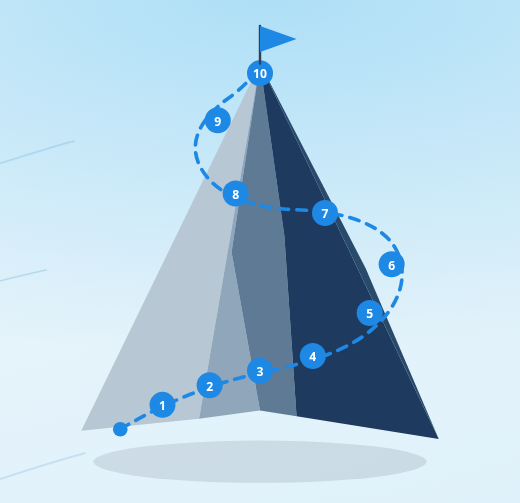
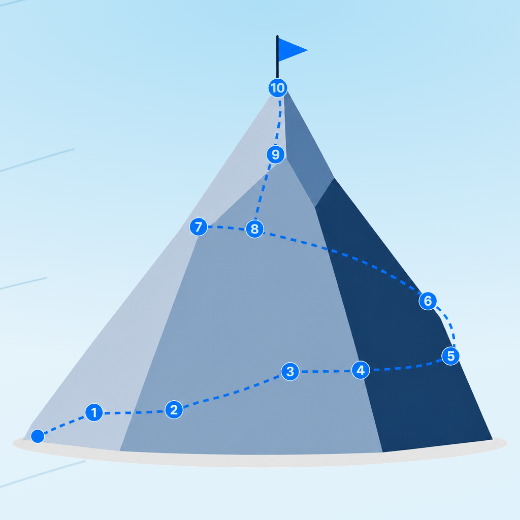
Restore original Summit mountain look with ordered stops
Bring back the previous low-poly mountain graphic and keep stop
numbers 1 through 10 in trail order on a transparent background.

diff --git a/index.html b/index.html
@@ -115,12 +115,12 @@
           </div>
 
           <div class="home-summit">
-            <!-- Static Summit — transparent SVG, stops 1→10 in trail order -->
+            <!-- Previous mountain look; stops numbered 1-10 in trail order; transparent -->
             <img
               class="home-summit__art"
-              src="assets/img/summit.svg"
-              width="640"
-              height="620"
+              src="assets/img/summit.png"
+              width="1024"
+              height="1024"
               alt="The Summit: a mountain trail with ten unit stops numbered 1 through 10"
               decoding="async"
             />

diff --git a/assets/css/home-path.css b/assets/css/home-path.css
@@ -280,7 +280,7 @@ body.page-home {
   display: block;
   width: 100%;
   height: auto;
-  aspect-ratio: 640 / 620;
+  aspect-ratio: 1 / 1;
   object-fit: contain;
   background: transparent;
 }